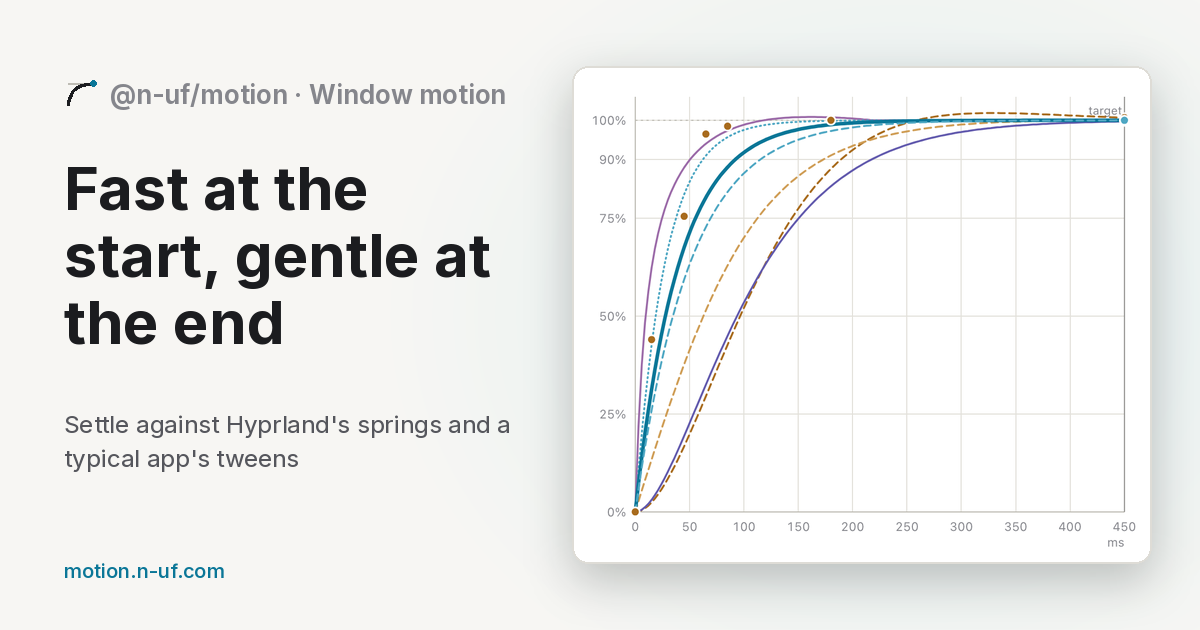
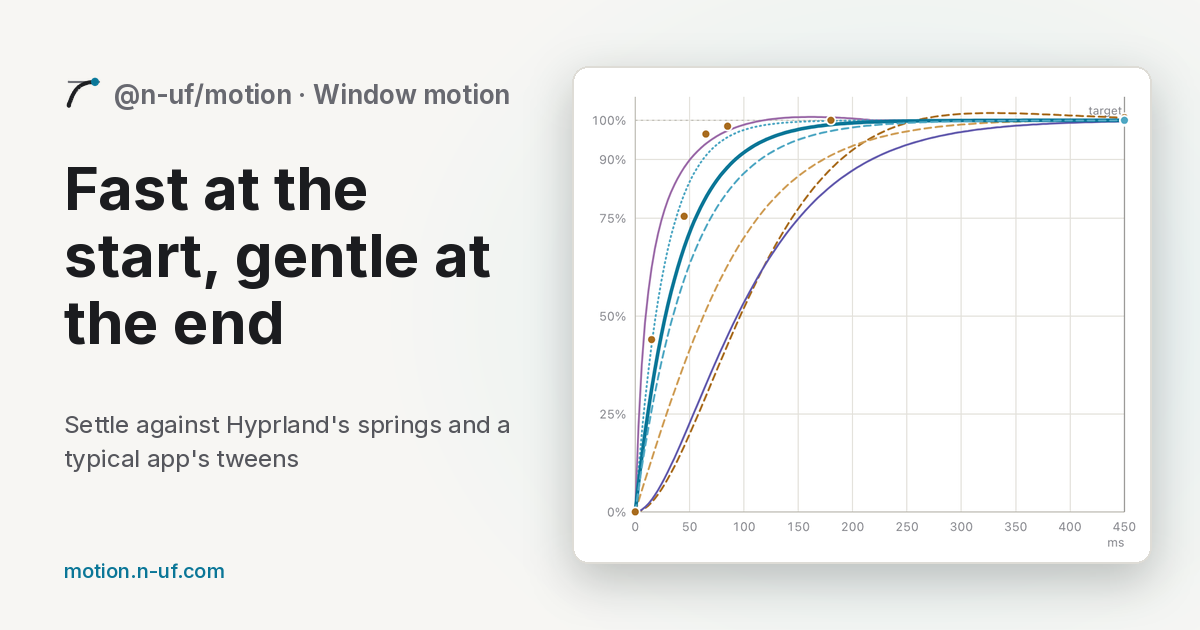
web: share cards carry the new mark (render-og.py draws the settle curve on its solid target line)

Changed region(s): [[0.0617, 0.1206, 0.4317, 0.181]]

diff --git a/apps/web/scripts/render-og.py b/apps/web/scripts/render-og.py
@@ -14,7 +14,8 @@ from PIL import Image, ImageDraw, ImageFilter, ImageFont
 
 ROOT = os.path.normpath(os.path.join(os.path.dirname(__file__), ".."))
 W, H = 1200, 630
-INK, MUTED, FAINT, ACCENT = (27, 28, 31), (85, 86, 92), (133, 134, 140), (10, 118, 151)
+INK, MUTED, FAINT, ACCENT = (27, 28, 31), (85, 86, 92), (104, 105, 112), (10, 118, 151)
+FAINT_LINE = (104, 105, 112)   # the mark's target line: the site's --text-3 in light
 # out file, small label, headline, sub line, capture (in scripts/og-src), picture box (width, height)
 CARDS = [
     ("public/og.png", "n-uf motion & placement", "Window motion and docking", "@n-uf/motion moves windows without overshoot; @n-uf/placement works out where they dock", "home.png", (560, 420)),
@@ -64,24 +65,35 @@ def picture(path, box_w, box_h):
     card.alpha_composite(im, (pad, pad))
     return card
 
-def mark(d, x, y, s):
-    """The site's mark (a settle curve ending on its target line) at (x, y), s px square."""
-    k = s / 24
-    d.line([(x + 3 * k, y + 5.5 * k), (x + 21 * k, y + 5.5 * k)], fill=(190, 188, 180), width=max(1, round(1.5 * k)))
+def mark(img, x, y, s):
+    """The site's mark (components/Mark.astro: a settle curve that arrives flat into its solid target line, the dot on it)
+    at (x, y), s px square, drawn at 4x and scaled down so the edges are smooth."""
+    q = 4
+    layer = Image.new("RGBA", (s * q, s * q), (0, 0, 0, 0))
+    d = ImageDraw.Draw(layer)
+    k = s * q / 24
+    ends = [(3 * k, 5 * k), (22 * k, 5 * k)]
+    d.line(ends, fill=FAINT_LINE, width=round(1.2 * k))
+    for e in ends:
+        d.ellipse((e[0] - 0.6 * k, e[1] - 0.6 * k, e[0] + 0.6 * k, e[1] + 0.6 * k), fill=FAINT_LINE)
     pts = []
-    for i in range(41):
-        t = i / 40   # the cubic of the mark's path: M3 20.5 C5.2 9.6 8.4 6.6 21 5.5
-        bx = (1 - t) ** 3 * 3 + 3 * (1 - t) ** 2 * t * 5.2 + 3 * (1 - t) * t * t * 8.4 + t ** 3 * 21
-        by = (1 - t) ** 3 * 20.5 + 3 * (1 - t) ** 2 * t * 9.6 + 3 * (1 - t) * t * t * 6.6 + t ** 3 * 5.5
-        pts.append((x + bx * k, y + by * k))
-    d.line(pts, fill=INK, width=round(2.2 * k), joint="curve")
-    d.ellipse((x + 19 * k, y + 3.5 * k, x + 23 * k, y + 7.5 * k), fill=ACCENT)
+    for i in range(61):
+        t = i / 60   # the cubic of the mark's path: M3 20 C6.1 10 9.8 5 19.6 5
+        bx = (1 - t) ** 3 * 3 + 3 * (1 - t) ** 2 * t * 6.1 + 3 * (1 - t) * t * t * 9.8 + t ** 3 * 19.6
+        by = (1 - t) ** 3 * 20 + 3 * (1 - t) ** 2 * t * 10 + 3 * (1 - t) * t * t * 5 + t ** 3 * 5
+        pts.append((bx * k, by * k))
+    w = round(2.6 * k)
+    d.line(pts, fill=INK, width=w, joint="curve")
+    for p in (pts[0], pts[-1]):   # round caps
+        d.ellipse((p[0] - w / 2, p[1] - w / 2, p[0] + w / 2, p[1] + w / 2), fill=INK)
+    d.ellipse((19.6 * k - 2.5 * k, 5 * k - 2.5 * k, 19.6 * k + 2.5 * k, 5 * k + 2.5 * k), fill=ACCENT)
+    img.alpha_composite(layer.resize((s, s), Image.LANCZOS), (x, y))
 
 for out_path, label, head, sub, pic, box in CARDS:
     out = background()
     d = ImageDraw.Draw(out)
-    mark(d, 64, 76, 34)
-    d.text((110, 104), label, font=font(26, 650), fill=FAINT, anchor="ls")
+    mark(out, 64, 74, 38)
+    d.text((114, 104), label, font=font(26, 650), fill=FAINT, anchor="ls")
     size = 60
     while True:
         f = font(size, 700)
